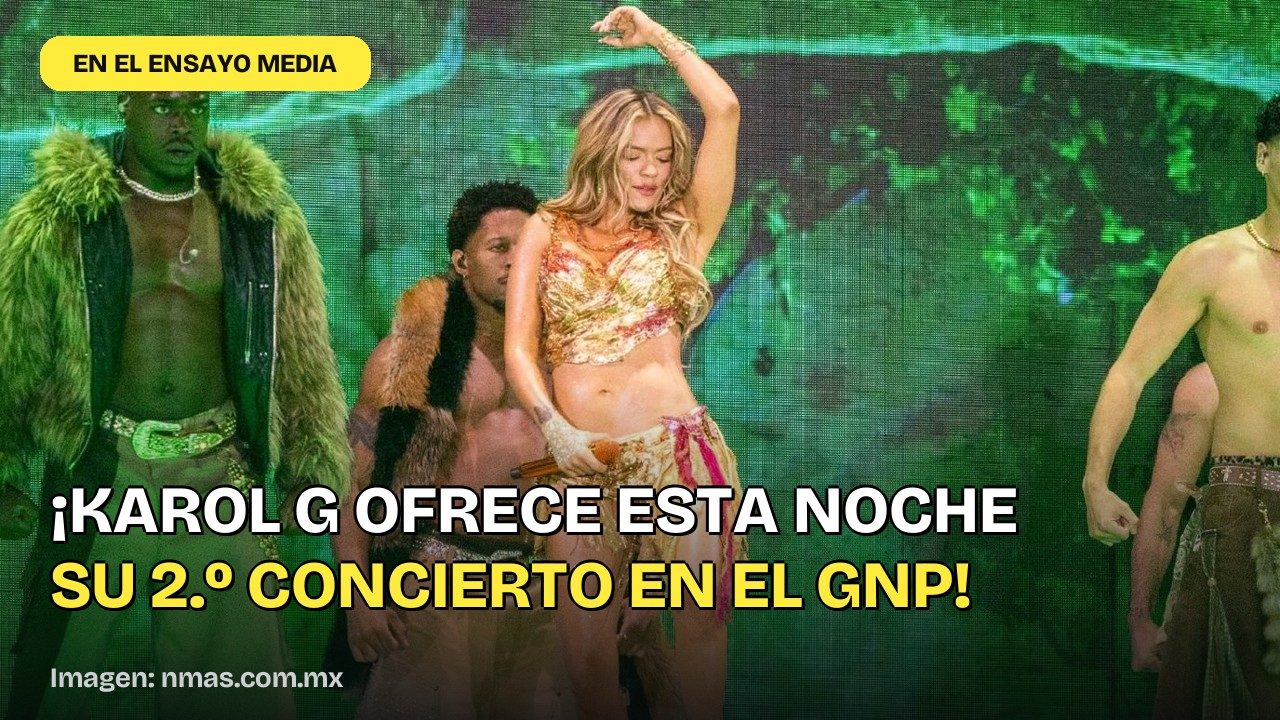
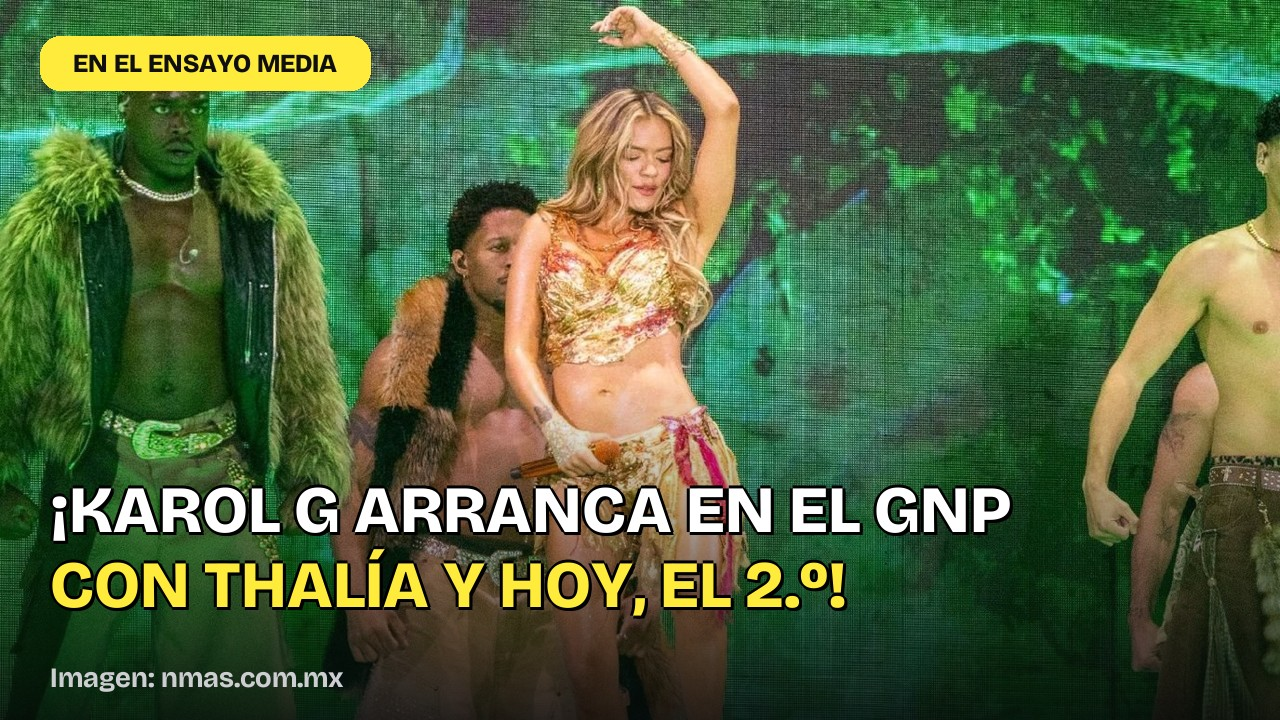
[bot] Karol G: Thalía sí (2 medios), primera función y segunda de hoy — 2026-11-14 10:18

Changed region(s): [[0.0312, 0.6722, 0.8125, 0.8556]]

diff --git a/notas/karol-g-ofrece-esta-noche-su-segundo-concierto-en-el-estadio-gnp-1114.html b/notas/karol-g-ofrece-esta-noche-su-segundo-concierto-en-el-estadio-gnp-1114.html
@@ -1,17 +1,17 @@
 <!doctype html>
 <html lang="es"><head><meta charset="utf-8"><meta name="viewport" content="width=device-width,initial-scale=1">
-<title>Karol G ofrece esta noche su segundo concierto en el Estadio GNP de la CDMX — En El Ensayo Media</title>
-<meta name="description" content="Karol G se presenta con su Tropitour en el Estadio GNP Seguros de la Ciudad de México: esta noche, 14 de noviembre, ofrece la segunda de tres funciones, con Becky G como invitada de apertura.">
+<title>Karol G arrancó su Tropitour en el GNP con Thalía y hoy da su segundo concierto — En El Ensayo Media</title>
+<meta name="description" content="Karol G inició su Tropitour en el Estadio GNP Seguros de la Ciudad de México, donde según reportes de varios medios Thalía fue la invitada especial; hoy, 14 de noviembre, ofrece la segunda de tres funciones, con Becky G como invitada de apertura.">
 <link rel="canonical" href="https://enelensayomedia.com/notas/karol-g-ofrece-esta-noche-su-segundo-concierto-en-el-estadio-gnp-1114.html"><meta property="og:url" content="https://enelensayomedia.com/notas/karol-g-ofrece-esta-noche-su-segundo-concierto-en-el-estadio-gnp-1114.html">
 <meta property="og:type" content="article"><meta property="og:site_name" content="En El Ensayo Media">
-<meta property="og:title" content="Karol G ofrece esta noche su segundo concierto en el Estadio GNP de la CDMX"><meta property="og:description" content="Karol G se presenta con su Tropitour en el Estadio GNP Seguros de la Ciudad de México: esta noche, 14 de noviembre, ofrece la segunda de tres funciones, con Becky G como invitada de apertura."><meta property="og:image" content="https://enelensayomedia.com/img/notas/karol-g-ofrece-esta-noche-su-segundo-concierto-en-el-estadio-gnp-1114.jpg">
+<meta property="og:title" content="Karol G arrancó su Tropitour en el GNP con Thalía y hoy da su segundo concierto"><meta property="og:description" content="Karol G inició su Tropitour en el Estadio GNP Seguros de la Ciudad de México, donde según reportes de varios medios Thalía fue la invitada especial; hoy, 14 de noviembre, ofrece la segunda de tres funciones, con Becky G como invitada de apertura."><meta property="og:image" content="https://enelensayomedia.com/img/notas/karol-g-ofrece-esta-noche-su-segundo-concierto-en-el-estadio-gnp-1114.jpg">
 <meta property="article:published_time" content="2026-11-14T10:05:19">
-<meta name="twitter:card" content="summary_large_image"><meta name="twitter:title" content="Karol G ofrece esta noche su segundo concierto en el Estadio GNP de la CDMX">
-<meta name="twitter:description" content="Karol G se presenta con su Tropitour en el Estadio GNP Seguros de la Ciudad de México: esta noche, 14 de noviembre, ofrece la segunda de tres funciones, con Becky G como invitada de apertura."><meta name="twitter:image" content="https://enelensayomedia.com/img/notas/karol-g-ofrece-esta-noche-su-segundo-concierto-en-el-estadio-gnp-1114.jpg">
+<meta name="twitter:card" content="summary_large_image"><meta name="twitter:title" content="Karol G arrancó su Tropitour en el GNP con Thalía y hoy da su segundo concierto">
+<meta name="twitter:description" content="Karol G inició su Tropitour en el Estadio GNP Seguros de la Ciudad de México, donde según reportes de varios medios Thalía fue la invitada especial; hoy, 14 de noviembre, ofrece la segunda de tres funciones, con Becky G como invitada de apertura."><meta name="twitter:image" content="https://enelensayomedia.com/img/notas/karol-g-ofrece-esta-noche-su-segundo-concierto-en-el-estadio-gnp-1114.jpg">
 <link href="https://fonts.googleapis.com/css2?family=Manrope:wght@400;600;800&family=Space+Mono:wght@400;700&display=swap" rel="stylesheet">
 <link rel="alternate" type="application/rss+xml" title="En El Ensayo Media" href="https://enelensayomedia.com/feed.xml">
-<script type="application/ld+json">{"@context": "https://schema.org", "@type": "NewsArticle", "headline": "Karol G ofrece esta noche su segundo concierto en el Estadio GNP de la CDMX", "description": "Karol G se presenta con su Tropitour en el Estadio GNP Seguros de la Ciudad de México: esta noche, 14 de noviembre, ofrece la segunda de tres funciones, con Becky G como invitada de apertura.", "datePublished": "2026-11-14T10:05:19", "author": {"@type": "Organization", "name": "En El Ensayo Media"}, "publisher": {"@type": "Organization", "name": "En El Ensayo Media", "url": "https://enelensayomedia.com"}, "image": ["https://enelensayomedia.com/img/notas/karol-g-ofrece-esta-noche-su-segundo-concierto-en-el-estadio-gnp-1114.jpg"]}</script>
-<script type="application/ld+json">{"@context": "https://schema.org", "@type": "BreadcrumbList", "itemListElement": [{"@type": "ListItem", "position": 1, "name": "En El Ensayo Media", "item": "https://enelensayomedia.com/"}, {"@type": "ListItem", "position": 2, "name": "Reportaje", "item": "https://enelensayomedia.com/noticias.html"}, {"@type": "ListItem", "position": 3, "name": "Karol G ofrece esta noche su segundo concierto en el Estadio GNP de la CDMX", "item": "https://enelensayomedia.com/notas/karol-g-ofrece-esta-noche-su-segundo-concierto-en-el-estadio-gnp-1114.html"}]}</script>
+<script type="application/ld+json">{"@context": "https://schema.org", "@type": "NewsArticle", "headline": "Karol G arrancó su Tropitour en el GNP con Thalía y hoy da su segundo concierto", "description": "Karol G inició su Tropitour en el Estadio GNP Seguros de la Ciudad de México, donde según reportes de varios medios Thalía fue la invitada especial; hoy, 14 de noviembre, ofrece la segunda de tres funciones, con Becky G como invitada de apertura.", "datePublished": "2026-11-14T10:05:19", "author": {"@type": "Organization", "name": "En El Ensayo Media"}, "publisher": {"@type": "Organization", "name": "En El Ensayo Media", "url": "https://enelensayomedia.com"}, "image": ["https://enelensayomedia.com/img/notas/karol-g-ofrece-esta-noche-su-segundo-concierto-en-el-estadio-gnp-1114.jpg"]}</script>
+<script type="application/ld+json">{"@context": "https://schema.org", "@type": "BreadcrumbList", "itemListElement": [{"@type": "ListItem", "position": 1, "name": "En El Ensayo Media", "item": "https://enelensayomedia.com/"}, {"@type": "ListItem", "position": 2, "name": "Reportaje", "item": "https://enelensayomedia.com/noticias.html"}, {"@type": "ListItem", "position": 3, "name": "Karol G arrancó su Tropitour en el GNP con Thalía y hoy da su segundo concierto", "item": "https://enelensayomedia.com/notas/karol-g-ofrece-esta-noche-su-segundo-concierto-en-el-estadio-gnp-1114.html"}]}</script>
 <style>
 :root{--tinta:#0b0812;--y:#FFEB3B;--i:#673AB7;--linea:#e4e1ea;--mono:'Space Mono',ui-monospace,monospace}
 *{box-sizing:border-box}body{margin:0;background:#fff;color:var(--tinta);font-family:Manrope,system-ui,sans-serif;line-height:1.7}
@@ -64,12 +64,12 @@ article blockquote{font-size:1.3rem;padding-left:16px}.cta{padding:16px}.video.v
 </style><meta name="google-adsense-account" content="ca-pub-5230441592261869"><script async src="https://pagead2.googlesyndication.com/pagead/js/adsbygoogle.js?client=ca-pub-5230441592261869" crossorigin="anonymous"></script><link rel="preconnect" href="https://fonts.gstatic.com" crossorigin><link href="https://fonts.googleapis.com/css2?family=Bricolage+Grotesque:opsz,wght@12..96,500;12..96,700;12..96,800&display=swap" rel="stylesheet"><link rel="manifest" href="/manifest.webmanifest"><meta name="theme-color" content="#0B0812"><link rel="apple-touch-icon" href="/img/icon-192.png"><link rel="stylesheet" href="/css/moderno.css?v=20261101d"></head><body>
 <header class="top"><div class="w"><a class="logo" href="https://enelensayomedia.com">EN EL ENSAYO MEDIA</a><nav><a href="https://enelensayomedia.com/#notas">Notas</a> <a href="https://enelensayomedia.com/#chisme">Chisme</a> <a href="https://enelensayomedia.com/#misterio">Misterio</a> <a href="https://enelensayomedia.com/#deporte">Deporte</a> <a href="https://enelensayomedia.com/#conciertos">Conciertos</a> <a href="https://enelensayomedia.com/#videos">Videos</a> <a href="https://enelensayomedia.com/podcast.html">Podcast</a> <a href="https://enelensayomedia.com/sesiones.html">Sesiones en vivo</a></nav><a class="tg" href="https://t.me/enelensayomedia" target="_blank" rel="noopener">Únete en Telegram</a></div></header>
 <div data-slot="cabecera" class="w" style="padding:8px 20px 0"></div>
-<div class="cabecera"><div class="w"><a class="kicker" href="https://enelensayomedia.com/noticias.html">Reportaje</a><h1>Karol G ofrece esta noche su segundo concierto en el Estadio GNP de la CDMX</h1>
-<p class="dek">Karol G se presenta con su Tropitour en el Estadio GNP Seguros de la Ciudad de México: esta noche, 14 de noviembre, ofrece la segunda de tres funciones, con Becky G como invitada de apertura.</p><div class="firma">Por <b>Redacción En el Ensayo Media</b> · 14 de noviembre de 2026 · 10:05</div></div></div>
+<div class="cabecera"><div class="w"><a class="kicker" href="https://enelensayomedia.com/noticias.html">Reportaje</a><h1>Karol G arrancó su Tropitour en el GNP con Thalía y hoy da su segundo concierto</h1>
+<p class="dek">Karol G inició su Tropitour en el Estadio GNP Seguros de la Ciudad de México, donde según reportes de varios medios Thalía fue la invitada especial; hoy, 14 de noviembre, ofrece la segunda de tres funciones, con Becky G como invitada de apertura.</p><div class="firma">Por <b>Redacción En el Ensayo Media</b> · 14 de noviembre de 2026 · 10:05</div></div></div>
 <div class="pagina w"><article>
 <div class="share">Compartir: <a id="x" href="#" target="_blank" rel="noopener">X</a><a id="fb" href="#" target="_blank" rel="noopener">Facebook</a><a id="wa" href="#" target="_blank" rel="noopener">WhatsApp</a><a id="cp" href="#" onclick="return false">Copiar enlace</a></div>
-<figure class="hero"><picture><source type="image/webp" srcset="https://enelensayomedia.com/img/notas/karol-g-ofrece-esta-noche-su-segundo-concierto-en-el-estadio-gnp-1114.webp"><img src="https://enelensayomedia.com/img/notas/karol-g-ofrece-esta-noche-su-segundo-concierto-en-el-estadio-gnp-1114.jpg" alt="Karol G ofrece esta noche su segundo concierto en el Estadio GNP de la CDMX" decoding="async"></picture><figcaption>Foto: Karol G</figcaption></figure><p>Karol G se presenta con su Tropitour en el Estadio GNP Seguros de la Ciudad de México: esta noche, 14 de noviembre, ofrece la segunda de tres funciones, con Becky G como invitada de apertura. La cantante tiene tres conciertos programados para los días 13, 14 y 15 de noviembre de 2026. La derrama económica estimada asciende a 460 millones de pesos, según reportes. Becky G abre los conciertos, y los boletos aparecen agotados en Ticketmaster, aunque quedaban disponibles en el área General A a $4,942.75 pesos según Chilango al 3 de noviembre. Los precios oscilaron entre $1,200 y más de $35 mil pesos, incluidos paquetes VIP, según El Imparcial. Además, el 4 de noviembre, Karol G realizó un &#x27;Live Album Celebration&#x27; de su disco &#x27;No Me Arrepiento de Sentir Tanto&#x27; transmitido por TikTok Live.</p><figure class='embed-social' style='margin:1.6rem auto;max-width:640px'><picture><source type="image/webp" srcset="/img/prensa/prensa_da77e29ef3ff.webp"><img src='/img/prensa/prensa_da77e29ef3ff.jpg' style='width:100%;border-radius:14px' alt="Imagen de prensa sobre: Karol G ofrece esta noche su segundo concierto en el Estadio GNP de la CDMX — En El Ensayo Media (crédito: nmas.com.mx)" decoding="async"></picture><figcaption style='font-size:.82rem;opacity:.75;text-align:center;margin-top:.5rem'>Imagen: nmas.com.mx</figcaption></figure><h2>Qué se confirmó</h2><p>Karol G ofrece tres conciertos en el Estadio GNP Seguros de CDMX los días 13, 14 y 15 de noviembre de 2026 como parte de su Tropitour; el de esta noche, 14 de noviembre, es el segundo. La derrama económica estimada asciende a 460 millones de pesos. Becky G abre los conciertos. Según Ticketmaster, las tres fechas aparecen como &#x27;SOLD OUT&#x27;. Al 3 de noviembre, Chilango reportó que aún quedaban boletos en el área General A a $4,942.75 pesos. El Imparcial informó precios de $1,200 a más de $35 mil pesos, incluidos paquetes VIP. El 4 de noviembre, Karol G hizo el &#x27;Live Album Celebration&#x27; de su disco &#x27;No Me Arrepiento de Sentir Tanto&#x27; por TikTok Live.</p><h2>El panorama</h2><p>Carolina Giraldo Navarro, conocida como Karol G, es una cantante y compositora colombiana considerada una de las figuras más influyentes de la música urbana y latina contemporánea. Nacida el 14 de febrero de 1991 en Medellín, inició su carrera en 2007 con el sencillo &#x27;En la playa&#x27;. Su reconocimiento internacional llegó en 2017 con la colaboración &#x27;Ahora me llama&#x27; junto a Bad Bunny, que incluyó su álbum debut Unstoppable en el segundo lugar de la lista Top Latin Albums de Billboard. En 2019 lanzó el álbum Ocean, y en 2021 su álbum KG0516. En 2022 presentó Mañana será bonito, y en 2023 estrenó Tropicoqueta. Su gira Viajando por el Mundo Tropitour incluye presentaciones en varias ciudades, entre ellas CDMX, donde desempeña un papel clave en la expansión de su carrera global.</p>
-<div data-slot="medio"></div><p>Karol G consolida su presencia en México con tres funciones en el GNP dentro de su gira Tropitour. La artista continúa expandiendo su influencia en la música urbana con un enfoque en giras internacionales y proyectos digitales como el Live Album Celebration.</p><p class="fuentes" style="font-size:.74rem;line-height:1.55;color:#8b8b95;margin:30px 0 6px;padding-top:12px;border-top:1px solid rgba(139,139,149,.28);text-align:left;hyphens:none;-webkit-hyphens:none;overflow-wrap:anywhere">Fuentes: Amexi · Chic Magazine · El Porvenir - Portada · El Universal · Infobae · MILENIO · Maya Comunicación · Proceso · los40.com.mx · chilango.com · elimparcial.com</p>
+<figure class="hero"><picture><source type="image/webp" srcset="https://enelensayomedia.com/img/notas/karol-g-ofrece-esta-noche-su-segundo-concierto-en-el-estadio-gnp-1114.webp"><img src="https://enelensayomedia.com/img/notas/karol-g-ofrece-esta-noche-su-segundo-concierto-en-el-estadio-gnp-1114.jpg" alt="Karol G arrancó su Tropitour en el GNP con Thalía y hoy da su segundo concierto" decoding="async"></picture><figcaption>Foto: Karol G</figcaption></figure><p>Karol G inició su Tropitour en el Estadio GNP Seguros de la Ciudad de México, donde según reportes de varios medios Thalía fue la invitada especial; hoy, 14 de noviembre, ofrece la segunda de tres funciones, con Becky G como invitada de apertura. La cantante tiene tres conciertos programados para los días 13, 14 y 15 de noviembre de 2026. La derrama económica estimada asciende a 460 millones de pesos, según reportes. Becky G abre los conciertos, y los boletos aparecen agotados en Ticketmaster, aunque quedaban disponibles en el área General A a $4,942.75 pesos según Chilango al 3 de noviembre. Los precios oscilaron entre $1,200 y más de $35 mil pesos, incluidos paquetes VIP, según El Imparcial. Además, el 4 de noviembre, Karol G realizó un &#x27;Live Album Celebration&#x27; de su disco &#x27;No Me Arrepiento de Sentir Tanto&#x27; transmitido por TikTok Live.</p><figure class='embed-social' style='margin:1.6rem auto;max-width:640px'><picture><source type="image/webp" srcset="/img/prensa/prensa_da77e29ef3ff.webp"><img src='/img/prensa/prensa_da77e29ef3ff.jpg' style='width:100%;border-radius:14px' alt="Imagen de prensa sobre: Karol G arrancó su Tropitour en el GNP con Thalía y hoy da su segundo concierto — En El Ensayo Media (crédito: nmas.com.mx)" decoding="async"></picture><figcaption style='font-size:.82rem;opacity:.75;text-align:center;margin-top:.5rem'>Imagen: nmas.com.mx</figcaption></figure><h2>Qué se confirmó</h2><p>Karol G ofrece tres conciertos en el Estadio GNP Seguros de CDMX los días 13, 14 y 15 de noviembre de 2026 como parte de su Tropitour; el de esta noche, 14 de noviembre, es el segundo. En la primera función, según reportes de varios medios, Thalía fue la invitada especial. La derrama económica estimada asciende a 460 millones de pesos. Becky G abre los conciertos. Según Ticketmaster, las tres fechas aparecen como &#x27;SOLD OUT&#x27;. Al 3 de noviembre, Chilango reportó que aún quedaban boletos en el área General A a $4,942.75 pesos. El Imparcial informó precios de $1,200 a más de $35 mil pesos, incluidos paquetes VIP. El 4 de noviembre, Karol G hizo el &#x27;Live Album Celebration&#x27; de su disco &#x27;No Me Arrepiento de Sentir Tanto&#x27; por TikTok Live.</p><h2>El panorama</h2><p>Carolina Giraldo Navarro, conocida como Karol G, es una cantante y compositora colombiana considerada una de las figuras más influyentes de la música urbana y latina contemporánea. Nacida el 14 de febrero de 1991 en Medellín, inició su carrera en 2007 con el sencillo &#x27;En la playa&#x27;. Su reconocimiento internacional llegó en 2017 con la colaboración &#x27;Ahora me llama&#x27; junto a Bad Bunny, que incluyó su álbum debut Unstoppable en el segundo lugar de la lista Top Latin Albums de Billboard. En 2019 lanzó el álbum Ocean, y en 2021 su álbum KG0516. En 2022 presentó Mañana será bonito, y en 2023 estrenó Tropicoqueta. Su gira Viajando por el Mundo Tropitour incluye presentaciones en varias ciudades, entre ellas CDMX, donde desempeña un papel clave en la expansión de su carrera global.</p>
+<div data-slot="medio"></div><p>Karol G consolida su presencia en México con tres funciones en el GNP dentro de su gira Tropitour, con Becky G y Thalía como invitadas según los reportes. La artista continúa expandiendo su influencia en la música urbana con un enfoque en giras internacionales y proyectos digitales como el Live Album Celebration.</p><p class="fuentes" style="font-size:.74rem;line-height:1.55;color:#8b8b95;margin:30px 0 6px;padding-top:12px;border-top:1px solid rgba(139,139,149,.28);text-align:left;hyphens:none;-webkit-hyphens:none;overflow-wrap:anywhere">Fuentes: Amexi · Chic Magazine · El Porvenir - Portada · El Universal · Infobae · MILENIO · Maya Comunicación · Proceso · los40.com.mx · chilango.com · elimparcial.com</p>
 <div data-slot="nota"></div>
 <div class="cta"><strong>Más historias de música, casos reales y entrevistas</strong><br>
 <a class="b" href="https://www.youtube.com/@EnelEnsayoMedia?sub_confirmation=1" target="_blank" rel="noopener">▶ Suscríbete en YouTube</a><br><a class="s" href="https://www.youtube.com/@EnelEnsayoMedia" target="_blank" rel="noopener">YouTube</a> <a class="s" href="https://www.instagram.com/enelensayomedia" target="_blank" rel="noopener">Instagram</a> <a class="s" href="https://www.tiktok.com/@enelensayomedia" target="_blank" rel="noopener">TikTok</a> <a class="s" href="https://www.facebook.com/enelensayomedia" target="_blank" rel="noopener">Facebook</a> <a class="s" href="https://x.com/enelensayo" target="_blank" rel="noopener">X</a> <a class="s" href="https://bsky.app/profile/enelensayomedia.bsky.social" target="_blank" rel="noopener">Bluesky</a></div>
@@ -85,7 +85,7 @@ article blockquote{font-size:1.3rem;padding-left:16px}.cta{padding:16px}.video.v
 function rel(f){var m=(Date.now()-new Date(f))/6e4;if(m<60)return 'Hace '+Math.max(1,Math.round(m))+' min';if(m<1440)return 'Hace '+Math.round(m/60)+' h';return new Date(f).toLocaleDateString('es-MX',{day:'numeric',month:'short'})}
 fetch('/data/articles.json').then(function(r){return r.json()}).then(function(a){a=a.filter(function(x){return (x.url||'').indexOf(q)<0}).sort(function(x,y){return new Date(y.fecha)-new Date(x.fecha)});
 document.getElementById('ult').innerHTML=a.slice(0,8).map(function(x){return '<li><a href="'+(x.url||x.telegraph_url)+'"><small>'+rel(x.fecha)+'</small><span>'+x.titulo.replace(/</g,'&lt;')+'</span></a></li>'}).join('');
-document.getElementById('mas').innerHTML=a.filter(function(x){return x.imagen_url}).slice(0,6).map(function(x){return '<a href="'+(x.url||x.telegraph_url)+'"><img loading="lazy" src="'+x.imagen_url+'" alt="Karol G ofrece esta noche su segundo concierto en el Estadio GNP de la CDMX — En El Ensayo Media" decoding="async"><div class="t">'+x.titulo.replace(/</g,'&lt;')+'</div></a>'}).join('')}).catch(function(){});
+document.getElementById('mas').innerHTML=a.filter(function(x){return x.imagen_url}).slice(0,6).map(function(x){return '<a href="'+(x.url||x.telegraph_url)+'"><img loading="lazy" src="'+x.imagen_url+'" alt="Karol G arrancó su Tropitour en el GNP con Thalía y hoy da su segundo concierto — En El Ensayo Media" decoding="async"><div class="t">'+x.titulo.replace(/</g,'&lt;')+'</div></a>'}).join('')}).catch(function(){});
 var u=encodeURIComponent(location.href),t=encodeURIComponent(document.title);
 document.getElementById('x').href='https://twitter.com/intent/tweet?url='+u+'&text='+t;document.getElementById('fb').href='https://www.facebook.com/sharer/sharer.php?u='+u;
 document.getElementById('wa').href='https://wa.me/?text='+t+'%20'+u;document.getElementById('cp').onclick=function(){navigator.clipboard&&navigator.clipboard.writeText(location.href);this.textContent='Copiado'};})();</script>
